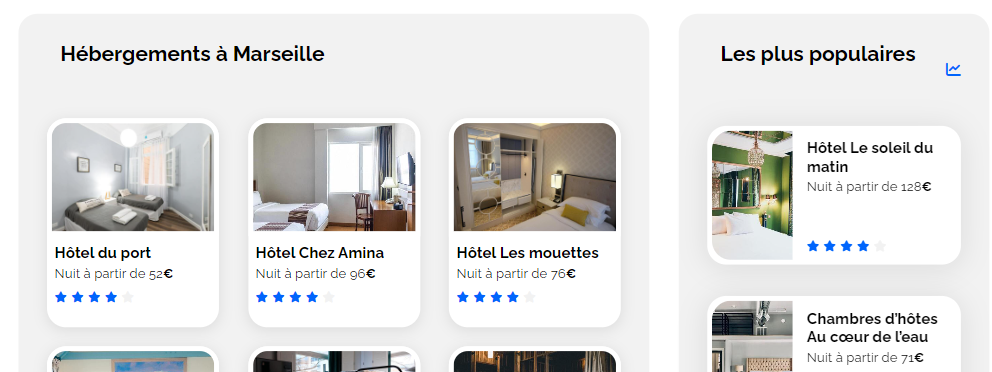
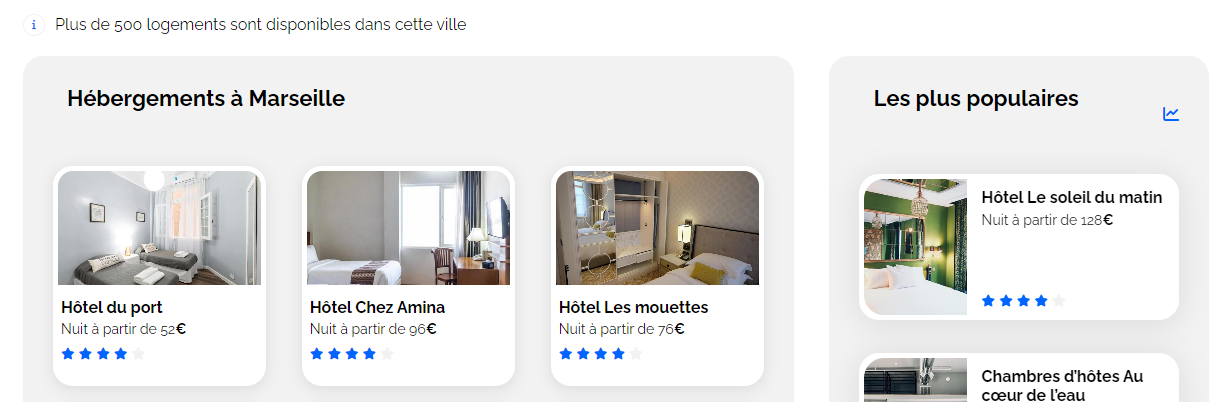
gitpage

diff --git a/src/components/card/card.css b/src/components/card/card.css
@@ -1,6 +1,6 @@
 .containerCard {
   border-radius: 10px;
-  background-color: #10303e;
+  /* background-color: #10303e; */
   height: 100%;
   min-height: 280px;
   position: relative;
@@ -15,11 +15,11 @@
   border-radius: 10px;
   display: flex;
   width: 100%;
-  height: 70%;
+  height: 100%;
   margin: auto;
 
 }
-.darken{
+/* .darken{
   background-color: #10303e;
   border-radius: 10px;
   height: 100%;
@@ -28,11 +28,11 @@
   position: absolute;
   top: 0;
   width: 100%;
-}
+} */
 .cardTitre {
   bottom: 20px;
-  color: #ffffffc2;
-  font-size: 1.125em;
+  color: #10303e;
+  font-size: 1.3em;
   left: 20px;
   margin-right: 20px;
   position: absolute;

diff --git a/src/pages/Home/index.jsx b/src/pages/Home/index.jsx
@@ -12,8 +12,10 @@ function Home() {
   };
   return (
     <div className="mainHome">
+      
       <Banner
         image={BannerHome}
+        title='Bienvenue sur mon portfolio en ligne'
         texte="Explorez un monde de projets créatifs conçus dans le cadre de ma formation. Chaque projet est une pièce de puzzle dans mon parcours d'apprentissage. Découvrez mes réalisations, façonnées avec soin et dévouement. Parcourez les cartes ci-dessous pour un aperçu de mon travail.Prêt à plonger dans mon univers ? Let's dive in!"
       />
       <div className="listCard">

diff --git a/src/components/Banner/index.jsx b/src/components/Banner/index.jsx
@@ -1,10 +1,11 @@
 import '../Banner/banner.css'
 
-function Banner({ image, texte }) {
+function Banner({ image, texte, title }) {
   return (
     <section className="bannerContainer">
       <img className="bannerImg" src={image} alt="Bannière" />
       <div className="darkenMode"></div>
+      <h1 className="bannerTitle"> {title}</h1>
       <span className="bannerText">{texte}</span>
     </section>
   )

diff --git a/src/components/Banner/banner.css b/src/components/Banner/banner.css
@@ -19,7 +19,17 @@
     font-size: 1.8em;
     left: 50%;
     position: absolute;
-    top: 55%;
+    top: 50%;
+    transform: translate(-50%, -50%);
+    width: 75%;
+  }
+  .bannerTitle{
+
+    color: #ffffffc2;
+    font-size: 2.5em;
+    left: 50%;
+    position: absolute;
+    top: 20%;
     transform: translate(-50%, -50%);
     width: 75%;
   }

diff --git a/src/components/Carrousel/carrousel.css b/src/components/Carrousel/carrousel.css
@@ -4,11 +4,11 @@
     overflow: hidden;
     border-radius: 25px;
     height: 100%;
-    height: 415px;
+    height: 420px;
   }
   
   .carousel-image {
-    height: 415px;
+    height: 420px;
     width: 100%;
     object-fit: cover;
     /* border: solid 3px #10303e;
